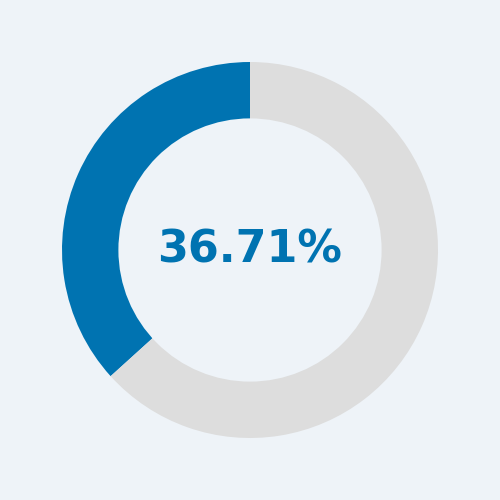
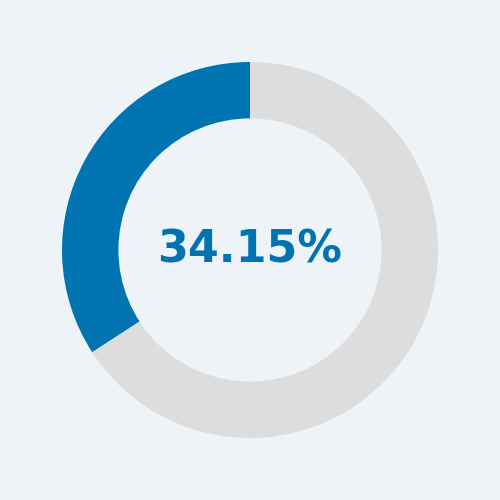
updated app.py

Changed region(s): [[0.48, 0.45, 0.6, 0.54], [0.18, 0.63, 0.3, 0.75], [0.36, 0.45, 0.45, 0.54]]

diff --git a/app.py b/app.py
@@ -115,6 +115,41 @@ def extract_top_keywords(resume_text, jd_text, top_n=5):
     return [kw[0] for kw in keywords]
 
 
+
+# --- Evaluation code for labeled resume/job description pairs ---
+import pandas as pd
+from sentence_transformers import InputExample
+
+def load_labeled_data(csv_path):
+    df = pd.read_csv(csv_path)
+    examples = [
+        InputExample(texts=[row['resume_text'], row['job_text']], label=float(row['label']))
+        for _, row in df.iterrows()
+        if pd.notnull(row['resume_text']) and pd.notnull(row['job_text'])
+    ]
+    return examples
+
+def evaluate_model_accuracy(model, examples, threshold=0.7):
+    from sklearn.metrics import accuracy_score
+
+    resumes = [ex.texts[0] for ex in examples]
+    jobs = [ex.texts[1] for ex in examples]
+    y_true = [int(ex.label) for ex in examples]
+
+    resume_embeddings = model.encode(resumes, convert_to_tensor=True, batch_size=32, show_progress_bar=True)
+    job_embeddings = model.encode(jobs, convert_to_tensor=True, batch_size=32, show_progress_bar=True)
+
+    sims = util.cos_sim(resume_embeddings, job_embeddings).diagonal().cpu().numpy()
+    y_pred = [1 if s >= threshold else 0 for s in sims]
+
+    accuracy = accuracy_score(y_true, y_pred)
+    print(f"Classification Accuracy: {accuracy:.2%}")
+    return accuracy
+
+# Load labeled data and evaluate
 if __name__ == '__main__':
     os.makedirs('uploads', exist_ok=True)
+    test_examples = load_labeled_data('resources/labeled_resume_job_pairs.csv')  # Ensure this file exists
+    evaluate_model_accuracy(model, test_examples)
     app.run(debug=True)
+

diff --git a/README.md b/README.md
@@ -153,6 +153,10 @@ Then navigate to `http://127.0.0.1:5000/` in your browser.
 ### Resume match score
 ![Match Score](images/resume-match-score.png)
 
+### Classification Score
+
+![Classification score](images/classification.png)
+
 ---
 
 ## 👥 Contributors
